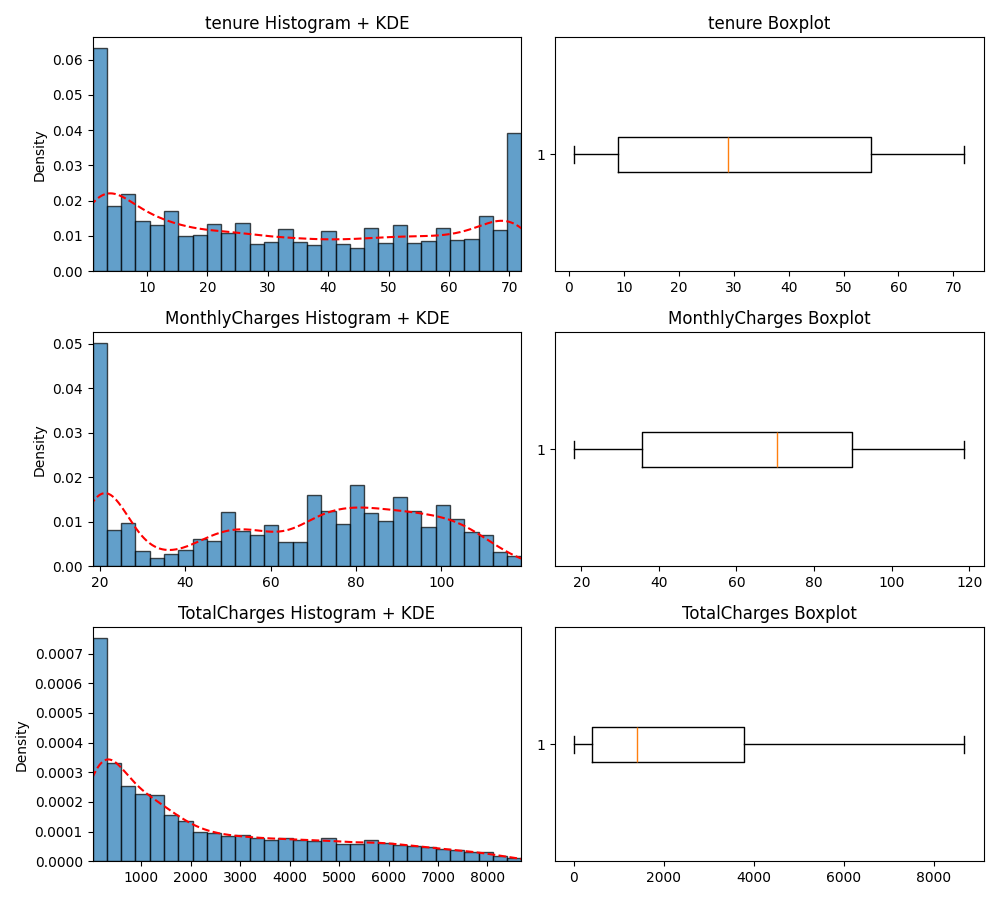
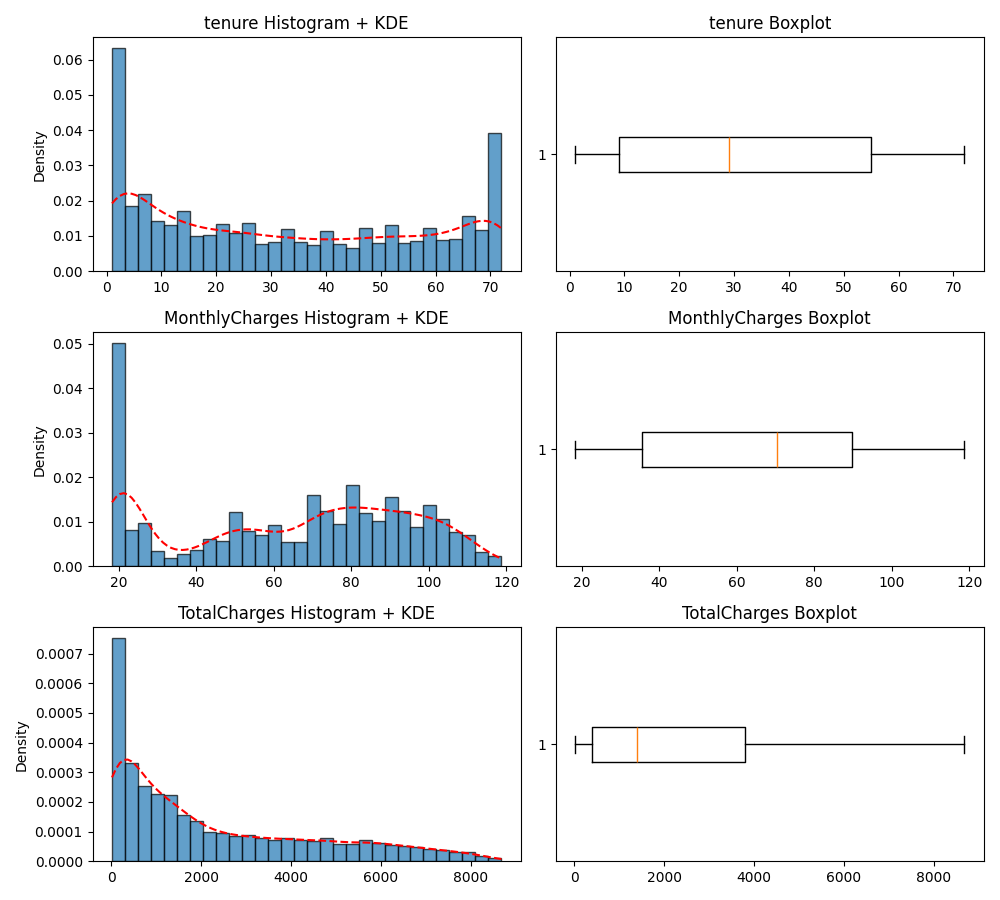
9-1-8

diff --git a/data_analysis/data_preparation_visualization/8-plot_continuous_distributions.py b/data_analysis/data_preparation_visualization/8-plot_continuous_distributions.py
@@ -25,40 +25,44 @@ def plot_continuous_distributions(df, columns_to_plot=None):
     # your code here
     axes = axes.flatten()
 
-    # loop through the columns - creating two graphs 1 histogram and 1 tenure boxplox
+    # loop through the columns - creating two graphs 1
+    # histogram and 1 tenure boxplox
     i = 0
     for col in df_plot.columns:
+        # histogram
+        """ KDE = Kernel Density Estimate
+        Left subplot: Histogram with KDE using the following settings
+        bins = 30
+        density = True
+        alpha = 0.7
+        edgecolor = 'black'
+        KDE line color should be red
+        Title format: "<column_name> Histogram + KDE"
+        """
+        data = df_plot[col]
+        xmin = data.min()
+        xmax = data.max()
+        axes[i].hist(data, bins=30, density=True, alpha=0.7, edgecolor='black')
+        # calculate and plot KDE
+        data.plot(
+            kind='kde',
+            ax=axes[i],
+            color='red',
+            linestyle='--',
+            ind=np.linspace(xmin, xmax, 100)
+            )
+        # set the boundaries
 
-      # histogram
-      """ KDE = Kernel Density Estimate
-      Left subplot: Histogram with KDE using the following settings
-      bins = 30
-      density = True
-      alpha = 0.7        
-      edgecolor = 'black'
-      KDE line color should be red
-      Title format: "<column_name> Histogram + KDE"
-      """        
-      data = df_plot[col]
-      axes[i].hist(data, bins=30, density=True, alpha=0.7, edgecolor='black') 
-      # calculate and plot KDE
-      data.plot(kind='kde', ax=axes[i], color ='red', linestyle='--')
-      # set the boundaries
-      xmin = data.min()
-      xmax = data.max()
-      axes[i].set_xlim(xmin, xmax)
-      axes[i].margins(x=0.05)
-
-      axes[i].set_title(f"{col} Histogram + KDE")
-      # boxplot
-      i += 1
-      """
-      Title format: "<column_name> Boxplot"
-      """
-      data = df_plot[col].to_list()        
-      axes[i].boxplot(data, vert=False)
-      axes[i].set_title(f"{col} Boxplot")
-      i += 1
+        axes[i].set_title(f"{col} Histogram + KDE")
+        # boxplot
+        i += 1
+        """
+        Title format: "<column_name> Boxplot"
+        """
+        data = df_plot[col].to_list()
+        axes[i].boxplot(data, vert=False)
+        axes[i].set_title(f"{col} Boxplot")
+        i += 1
 
     plt.tight_layout()
     plt.savefig("Task_8.png")